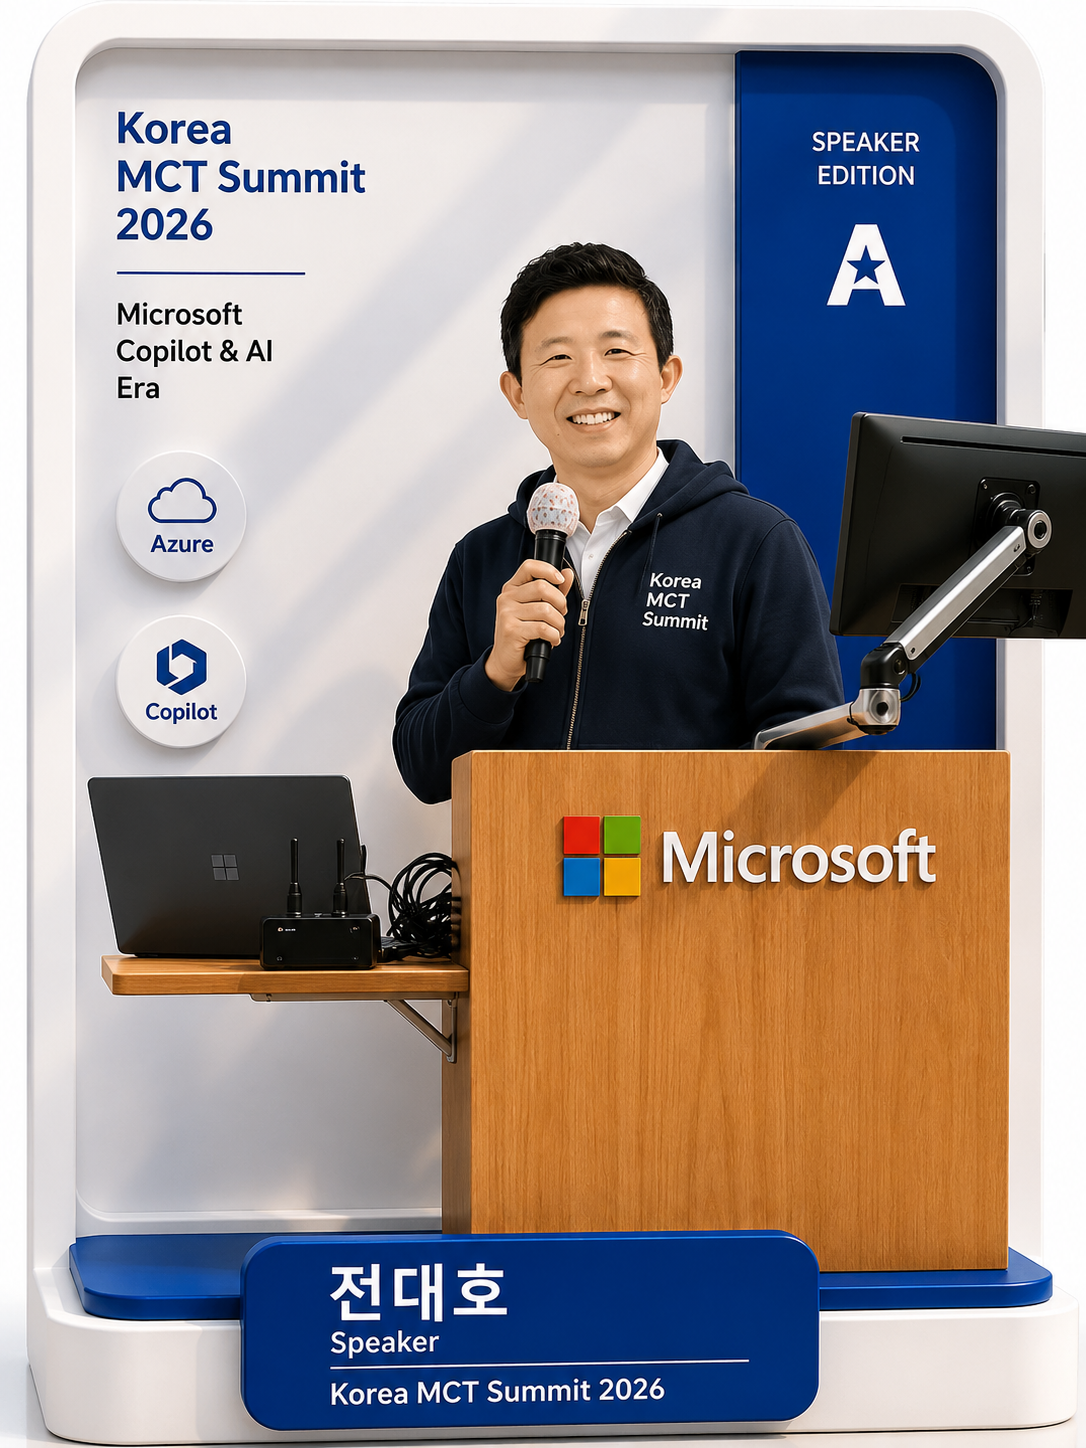
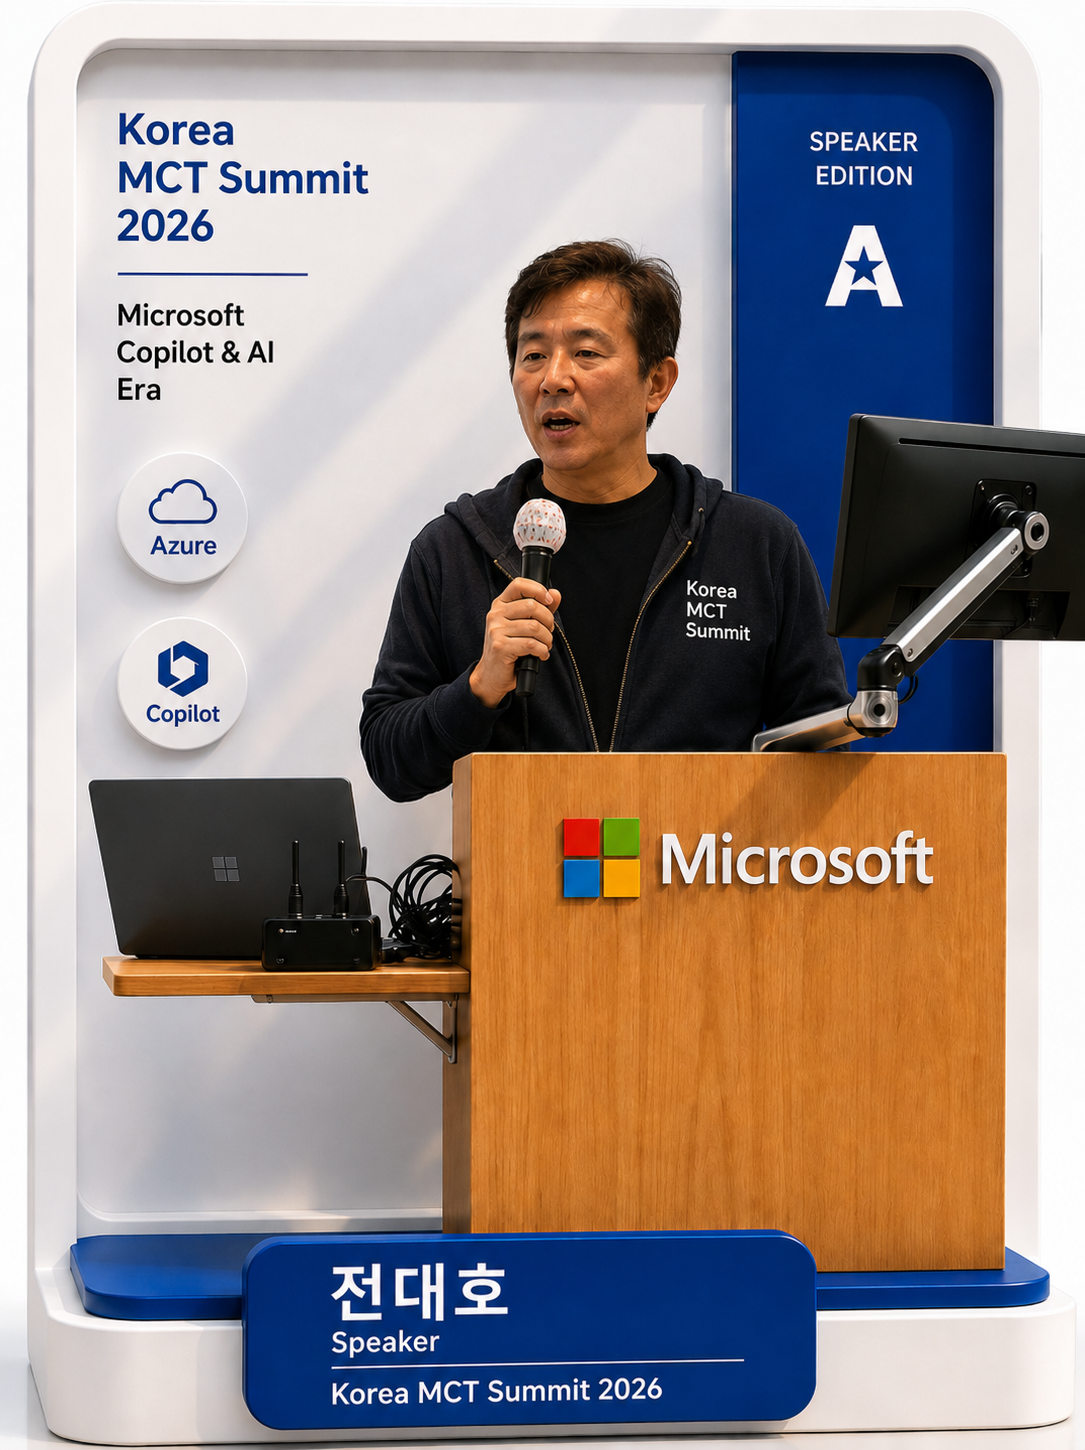
전대호님, 구병국님 새로운사진추가.

diff --git a/README.md b/README.md
@@ -40,7 +40,7 @@ Korea MCT Summit 2026이 더욱 의미 있는 시간이 될 수 있었습니다.
 
 ## 발표자료 바로가기
 
-최신 업데이트 기준 공개 가능한 발표자료 16건을 정리해두었습니다.
+최신 업데이트 기준 공개 가능한 발표자료 18건(PDF/HTML/ZIP 포함)을 정리해두었습니다.
 못 들은 세션 복습하거나, 다시 보고 싶은 내용 찾아보실 때 편하게 활용해 주세요.
 
 - [발표자료 폴더 바로가기](./share/)
@@ -61,7 +61,6 @@ Korea MCT Summit 2026이 더욱 의미 있는 시간이 될 수 있었습니다.
 발표별 현장 이미지를 한 페이지에서 볼 수 있도록 갤러리를 추가했습니다.
 
 - [figure 갤러리 바로가기 (GitHub 보기)](./figure/README.md)
-- [figure 갤러리 바로가기 (로컬 HTML)](./figure/index.html)
 - [figure 폴더 바로가기](./figure/)
 
 ## 함께 만든 운영팀
